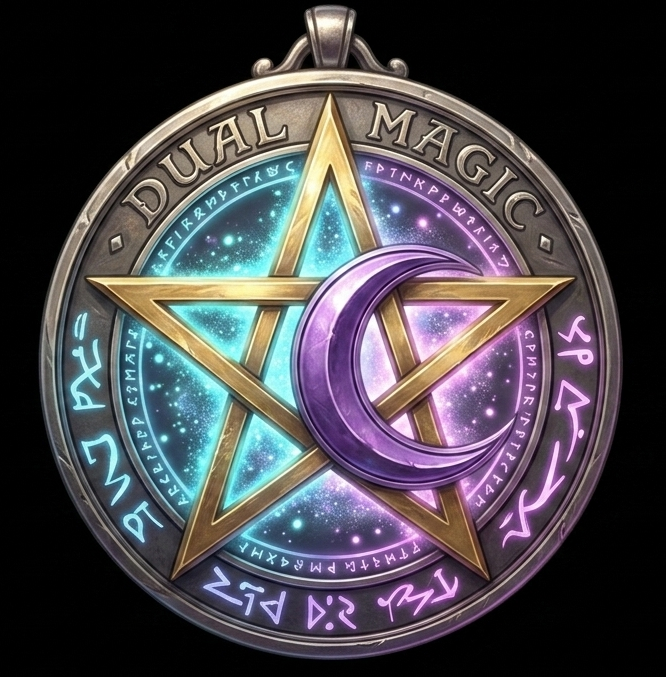
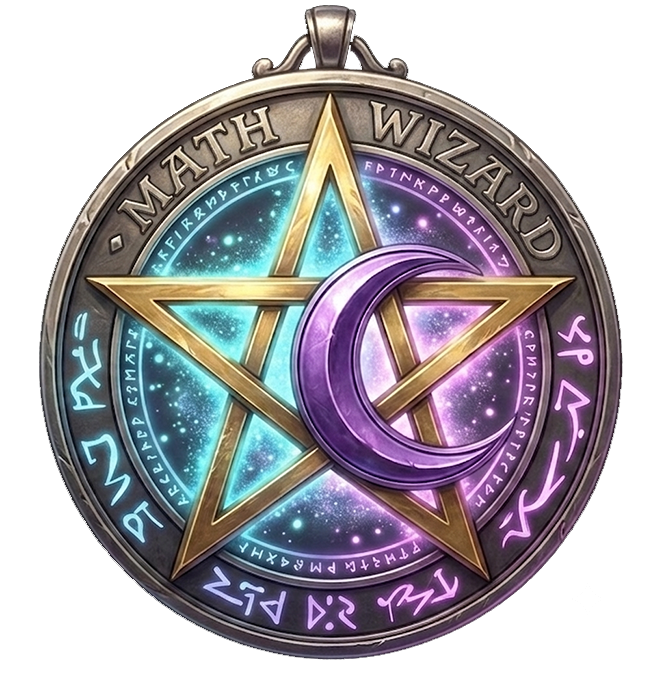
Bump to 1.0.010, aggiornati pendant e storia

diff --git a/math-wizard.py b/math-wizard.py
@@ -518,7 +518,7 @@ class Game :
         self .story_idx =0 
         self .num_story_levels =sum (1 for e in self .story_entries if e .get ("tipo")=="livello")
 
-        self .version ="1.0.009"
+        self .version ="1.0.010"
 
         self .profiles =[]
         self .current_profile =""
